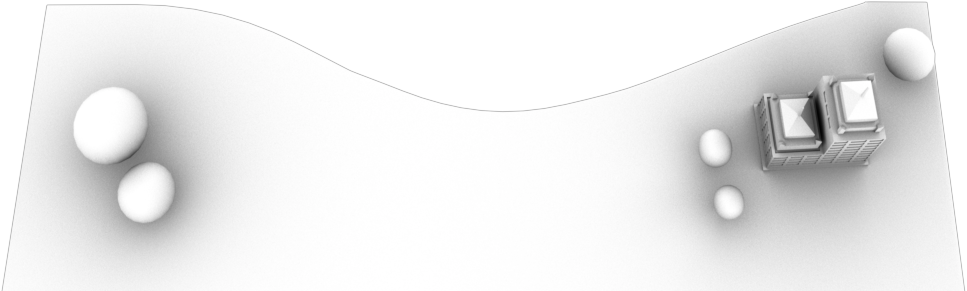
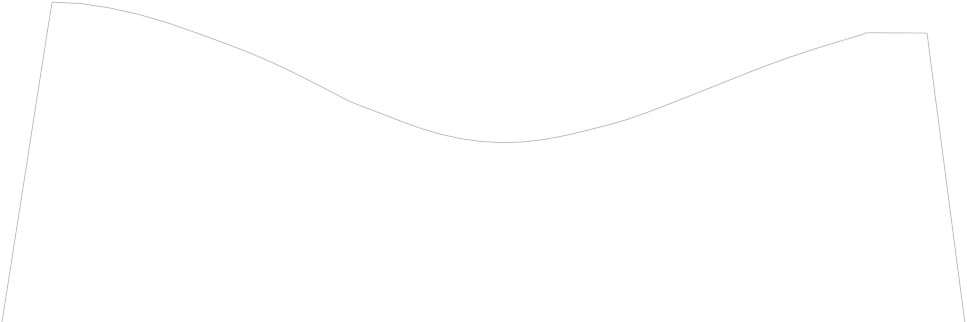
refactor: bottom boundary curve (#156)
* refactor: update bottom curve

* fix: unused import

* fix: disable golden tests

* refactor: use Traceable

* chore: re-enable zoom golden tests

diff --git a/packages/pinball_components/lib/src/components/boundaries.dart b/packages/pinball_components/lib/src/components/boundaries.dart
@@ -30,9 +30,9 @@ class _BottomBoundary extends BodyComponent with InitialPosition {
 
     final bottomLeftCurve = BezierCurveShape(
       controlPoints: [
-        Vector2(-43.6, -44.4),
-        Vector2(-31, -43.4),
-        Vector2(-18.7, -52.1),
+        Vector2(-43.9, -41.8),
+        Vector2(-35.7, -43),
+        Vector2(-19.9, -51),
       ],
     );
     final bottomLeftCurveFixtureDef = FixtureDef(bottomLeftCurve);
@@ -40,9 +40,9 @@ class _BottomBoundary extends BodyComponent with InitialPosition {
 
     final bottomRightCurve = BezierCurveShape(
       controlPoints: [
-        Vector2(31.8, -44.1),
-        Vector2(21.95, -47),
-        Vector2(12.3, -51.4),
+        Vector2(31.8, -44.8),
+        Vector2(21.95, -47.7),
+        Vector2(12.3, -52.1),
       ],
     );
     final bottomRightCurveFixtureDef = FixtureDef(bottomRightCurve);
@@ -78,7 +78,7 @@ class _BottomBoundarySpriteComponent extends SpriteComponent with HasGameRef {
     this.sprite = sprite;
     size = sprite.originalSize / 10;
     anchor = Anchor.center;
-    position = Vector2(-5.4, 57.4);
+    position = Vector2(-5.4, 55.8);
   }
 }
 
@@ -114,7 +114,7 @@ class _OuterBoundary extends BodyComponent with InitialPosition {
     final leftWall = EdgeShape()
       ..set(
         Vector2(-32.3, 57.2),
-        Vector2(-44.1, -44.4),
+        Vector2(-43.9, -41.8),
       );
     final leftWallFixtureDef = FixtureDef(leftWall);
     fixturesDefs.add(leftWallFixtureDef);

diff --git a/packages/pinball_components/sandbox/lib/stories/boundaries/boundaries_game.dart b/packages/pinball_components/sandbox/lib/stories/boundaries/boundaries_game.dart
@@ -1,0 +1,29 @@
+import 'package:flame/extensions.dart';
+import 'package:pinball_components/pinball_components.dart';
+import 'package:sandbox/common/common.dart';
+import 'package:sandbox/stories/ball/basic_ball_game.dart';
+
+class BoundariesGame extends BasicBallGame with Traceable {
+  BoundariesGame() : super(color: const Color(0xFFFF0000));
+
+  static const info = '''
+    Shows how Boundaries are rendered.
+
+    - Activate the "trace" parameter to overlay the body.
+    - Tap anywhere on the screen to spawn a ball into the game.
+''';
+
+  @override
+  Future<void> onLoad() async {
+    await super.onLoad();
+
+    await addFromBlueprint(Boundaries());
+    await ready();
+
+    camera
+      ..followVector2(Vector2.zero())
+      ..zoom = 6;
+
+    await traceAllBodies();
+  }
+}

diff --git a/packages/pinball_components/sandbox/lib/stories/boundaries/stories.dart b/packages/pinball_components/sandbox/lib/stories/boundaries/stories.dart
@@ -1,0 +1,15 @@
+import 'package:dashbook/dashbook.dart';
+import 'package:flame/game.dart';
+import 'package:sandbox/common/common.dart';
+import 'package:sandbox/stories/boundaries/boundaries_game.dart';
+
+void addBoundariesStories(Dashbook dashbook) {
+  dashbook.storiesOf('Boundaries').add(
+        'Basic',
+        (context) => GameWidget(
+          game: BoundariesGame()..trace = context.boolProperty('Trace', true),
+        ),
+        codeLink: buildSourceLink('boundaries_game/basic.dart'),
+        info: BoundariesGame.info,
+      );
+}

diff --git a/packages/pinball_components/sandbox/lib/common/trace.dart b/packages/pinball_components/sandbox/lib/common/trace.dart
@@ -12,8 +12,7 @@ extension BodyTrace on BodyComponent {
 
     unawaited(
       mounted.whenComplete(() {
-        final sprite = children.whereType<SpriteComponent>().first;
-        sprite.paint.color = sprite.paint.color.withOpacity(0.5);
+        children.whereType<SpriteComponent>().first.setOpacity(0.5);
 
         descendants().whereType<JointAnchor>().forEach((anchor) {
           final fixtureDef = FixtureDef(CircleShape()..radius = 0.5);

diff --git a/packages/pinball_components/sandbox/lib/stories/stories.dart b/packages/pinball_components/sandbox/lib/stories/stories.dart
@@ -1,5 +1,6 @@
 export 'ball/stories.dart';
 export 'baseboard/stories.dart';
+export 'boundaries/stories.dart';
 export 'chrome_dino/stories.dart';
 export 'effects/stories.dart';
 export 'flipper/stories.dart';

diff --git a/packages/pinball_components/sandbox/lib/main.dart b/packages/pinball_components/sandbox/lib/main.dart
@@ -24,5 +24,6 @@ void main() {
   addSlingshotStories(dashbook);
   addSparkyBumperStories(dashbook);
   addZoomStories(dashbook);
+  addBoundariesStories(dashbook);
   runApp(dashbook);
 }
